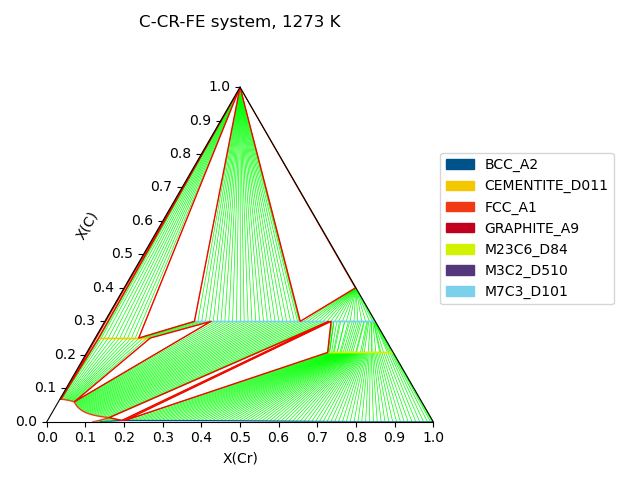
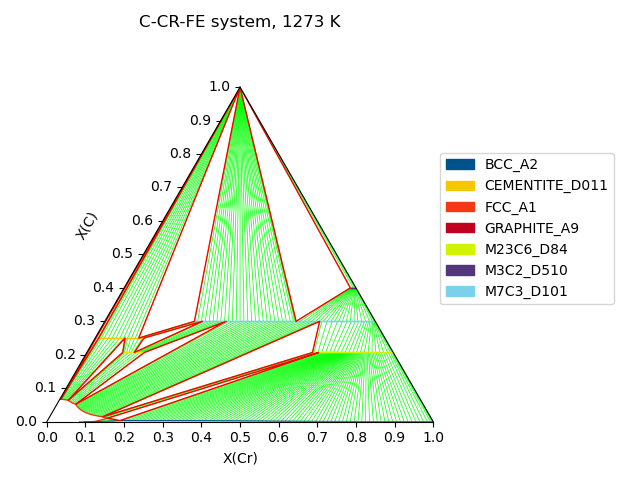
mf-steel: Removed 50*T term from M23C6_D84,FE:CR:C to bring it back in line with assessment from Lee 1992. Updated ternary phase diagrams.

Changed region(s): [[0.0938, 0.1875, 0.6562, 0.875], [0.5, 0.4688, 0.5312, 0.5625], [0.4688, 0.4062, 0.5, 0.4688]]

diff --git a/libreCalphad/databases/mf-steel_validation/C-CR-FE/C-CR-FE.py b/libreCalphad/databases/mf-steel_validation/C-CR-FE/C-CR-FE.py
@@ -12,7 +12,7 @@ system = '-'.join(comps[0:3])
 temps = [500, 1273, 1348]
 for temp in temps:
     print(f"Plotting {temp}")
-    plt.figure(figsize=(20,20))
+    plt.figure(figsize=(6,4))
     conds = {v.T: temp, v.P: 101325, v.X('CR'): (0, 1, 0.01), v.X('C'): (0, 1, 0.01)}
     ternplot(db, comps, phases, conds, x=v.X('CR'), y=v.X('C'))
     plt.title(f"{system} system, {temp} K")
